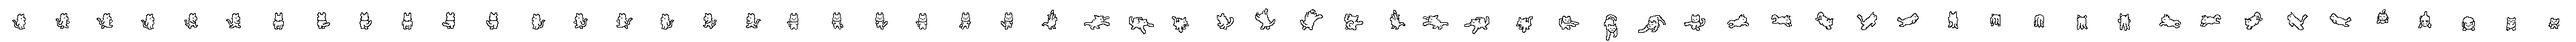
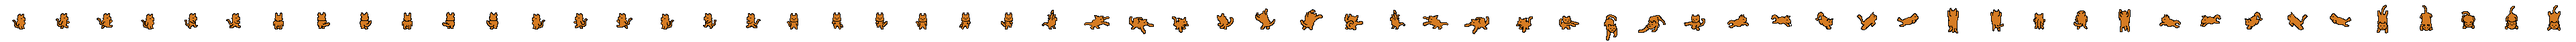
Colored in the cat
Cat has color now. Also some minor bug fixes.

Changed region(s): [[0.0, 0.2188, 1.0, 0.75]]

diff --git a/README.md b/README.md
@@ -5,7 +5,9 @@ I followed the Godot tutorial by HeartBeast and now I'm developing the project f
 **Changelog:**
 
 0.4.3:
-- Applied new UI changes to Victory screen as well
+- Made a new player sprite that is a cat. Current color is orange, more will follow.
+- Fixed bug where Restart would quit the game (deprecated scripts)
+- Applied new UI changes to the victory-screen as well
 
 0.4.2:
 - Refactored a lot of the UI, namely the defeat screen and menu screen
